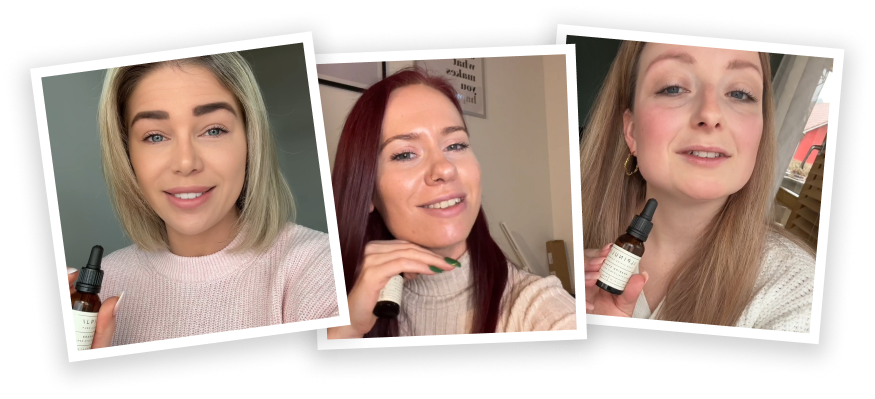
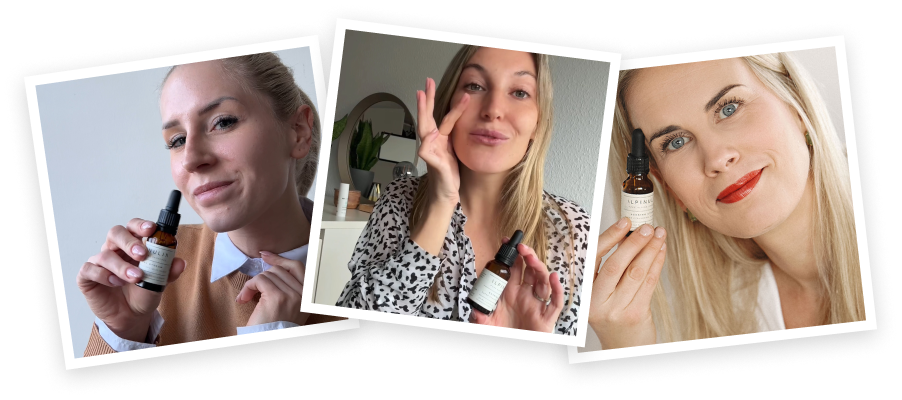
add title to swiper, change images

diff --git a/index.html b/index.html
@@ -243,7 +243,7 @@
         </section>
 
         <section class="wrapper no-left-right-padding">
-<!--            <img class="customers-image" src="images/customers.png" alt="Customers">-->
+            <h2 class="swiper-title">Was sagen unsere Kunden?</h2>
             <div class="swiper-container">
                 <div class="swiper-wrapper">
                     <div class="swiper-slide"><div class="video-item" style="padding:177.78% 0 0 0;position:relative;"><iframe src="https://player.vimeo.com/video/930366313?badge=0&amp;autopause=0&amp;player_id=0&amp;app_id=58479" frameborder="0" allow="autoplay; fullscreen; picture-in-picture; clipboard-write" style="position:absolute;top:0;left:0;width:100%;height:100%;" title="Anna"></iframe></div><script src="https://player.vimeo.com/api/player.js"></script></div>
@@ -281,6 +281,9 @@
                 <p>Der Grund, warum diese Kombination so gut funktioniert, ist, dass die Wirkstoffe an der Wurzel, also tief in der Haut ansetzen, um diese von innen heraus zu glätten.</p>
                 <p>Diese Kombination an hochwertigen Zutaten haben wir für dich zusammengestellt, um deiner Haut eine optimale Pflege zu bieten.</p>
             </div>
+        </section>
+        <section class="wrapper">
+                        <img class="customers-image" src="images/customers.png" alt="Customers">
         </section>
         <section class="wrapper">
             <div class="social-media-posts">

diff --git a/style.css b/style.css
@@ -409,6 +409,16 @@ header .payment {
 }
 
 /*video carousel */
+.swiper-title {
+    font-size: 36px;
+    font-weight: 600;
+    line-height: 42px;
+    text-align: center;
+
+    margin-bottom: 30px;
+    padding-left: 16px;
+    padding-right: 16px;
+}
 .swiper-container {
     overflow: hidden;
     position: relative;
